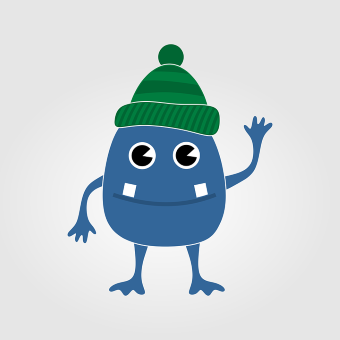
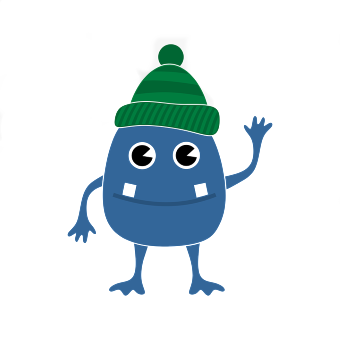
finishing touches...

diff --git a/src/MonsterManager/MonsterManager/wwwroot/css/site.css b/src/MonsterManager/MonsterManager/wwwroot/css/site.css
@@ -16,9 +16,21 @@
     line-height: 1.4;
 }
 
+.carousel-caption {
+    color: gray !important;
+}
+
 /* Make .svg files in the carousel display properly in older browsers */
-.carousel-inner .item img[src$=".svg"] {
+.carousel-inner .item  {
     width: 100%;
+} 
+
+.item img {
+    padding-left: 5rem;
+}
+
+.carousel-indicators li {
+    background-color: lightblue;
 }
 
 /* QR code generator */
@@ -33,3 +45,21 @@
         display: none;
     }
 }
+
+#profile-list {
+    margin-top: 2rem;
+}
+
+#profile {
+    margin-top: 2rem;
+   
+}
+
+#profile h3 {
+    color: darkorange;
+   
+}
+
+#profile li {list-style: none;}
+
+#profile ul {margin-top: 2rem;}

diff --git a/src/MonsterManager/MonsterManager/Controllers/MonsterManagerController.cs b/src/MonsterManager/MonsterManager/Controllers/MonsterManagerController.cs
@@ -4,11 +4,13 @@ using System.Linq;
 using System.Threading.Tasks;
 using ApplicationCore.Entities;
 using ApplicationCore.Interfaces;
+using Microsoft.AspNetCore.Authorization;
 using Microsoft.AspNetCore.Http;
 using Microsoft.AspNetCore.Mvc;
 
 namespace MonsterManager.Controllers
 {
+    [Authorize]
     public class MonsterManagerController : Controller
     {
         private readonly IMonsterRepository _monsterRepo;

diff --git a/src/MonsterManager/MonsterManager/Startup.cs b/src/MonsterManager/MonsterManager/Startup.cs
@@ -41,6 +41,8 @@ namespace MonsterManager
             services.AddMvc();
             // Add Repository Service
             services.AddScoped<IMonsterRepository, MonsterRepositoryFS>();
+         //   services.AddScoped<IMonsterRepository, MonsterRepositoryMemory>();
+
         }
 
         // This method gets called by the runtime. Use this method to configure the HTTP request pipeline.
